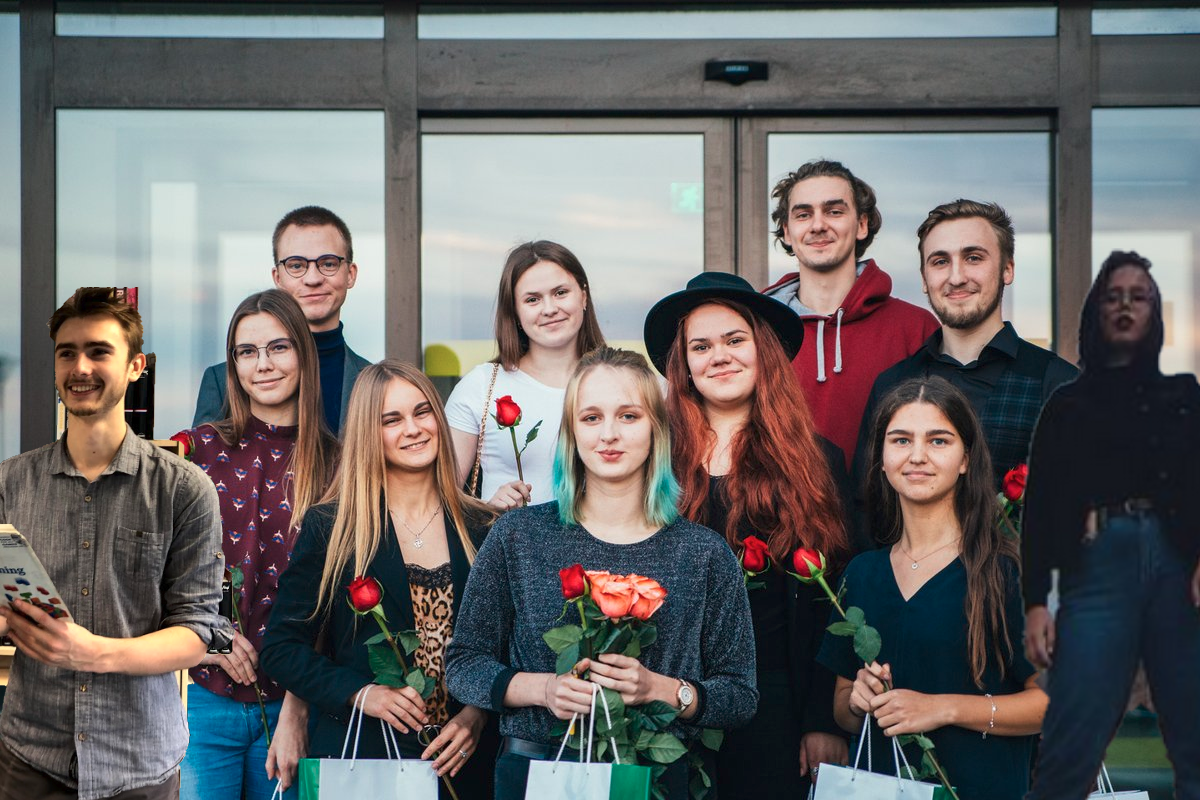
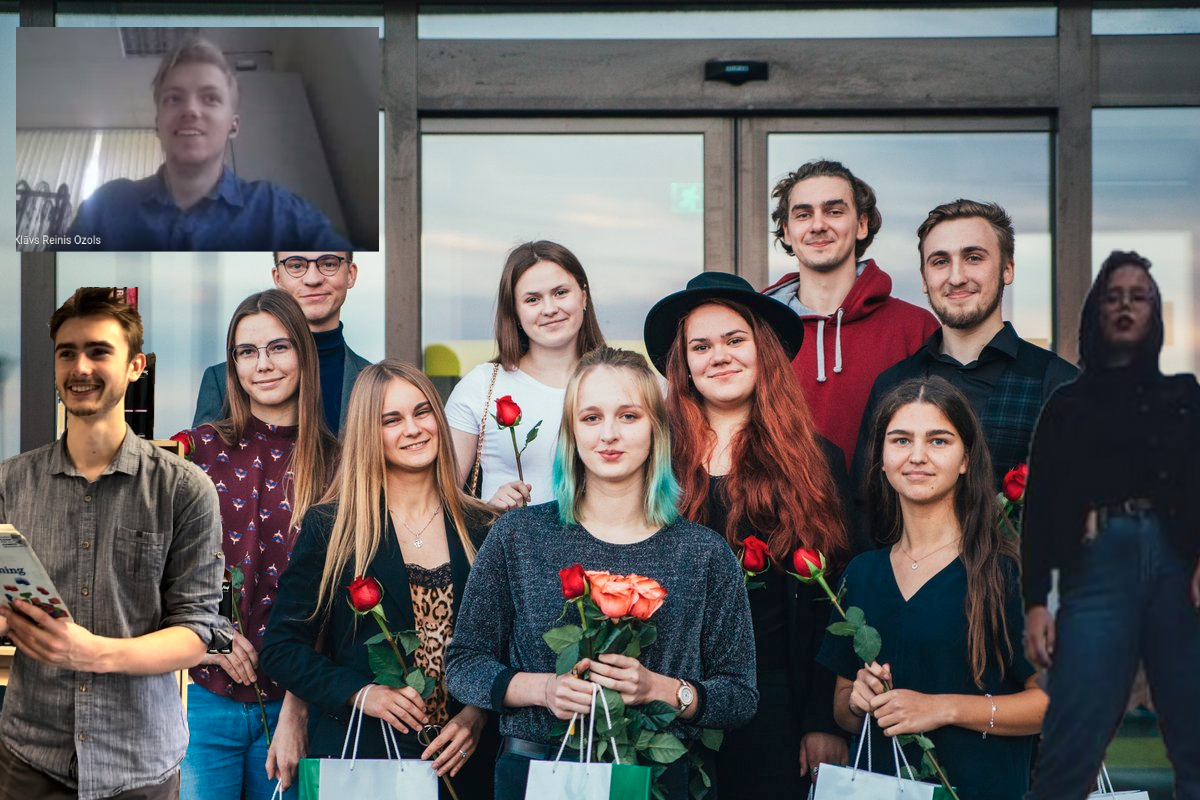
added Klāvs

Changed region(s): [[0.0, 0.0312, 0.3392, 0.3125]]

diff --git a/content/blog/1-hello-world/index.md b/content/blog/1-hello-world/index.md
@@ -23,6 +23,6 @@ Studentu Padome, kas šoreiz aktīvi un cītīgi darbojās 2020/2021 studiju gad
 
 ![sp](sp-2020-2021.png)
 
-*PS. two of these are not like the others*
+*PS. three of these are not like the others*
 
 Šoreiz šīs lapas pamatus ir izveidojis Roberts Ivanovs. Tas tā, ja nu kāds man grib darbu piedāvāt.
